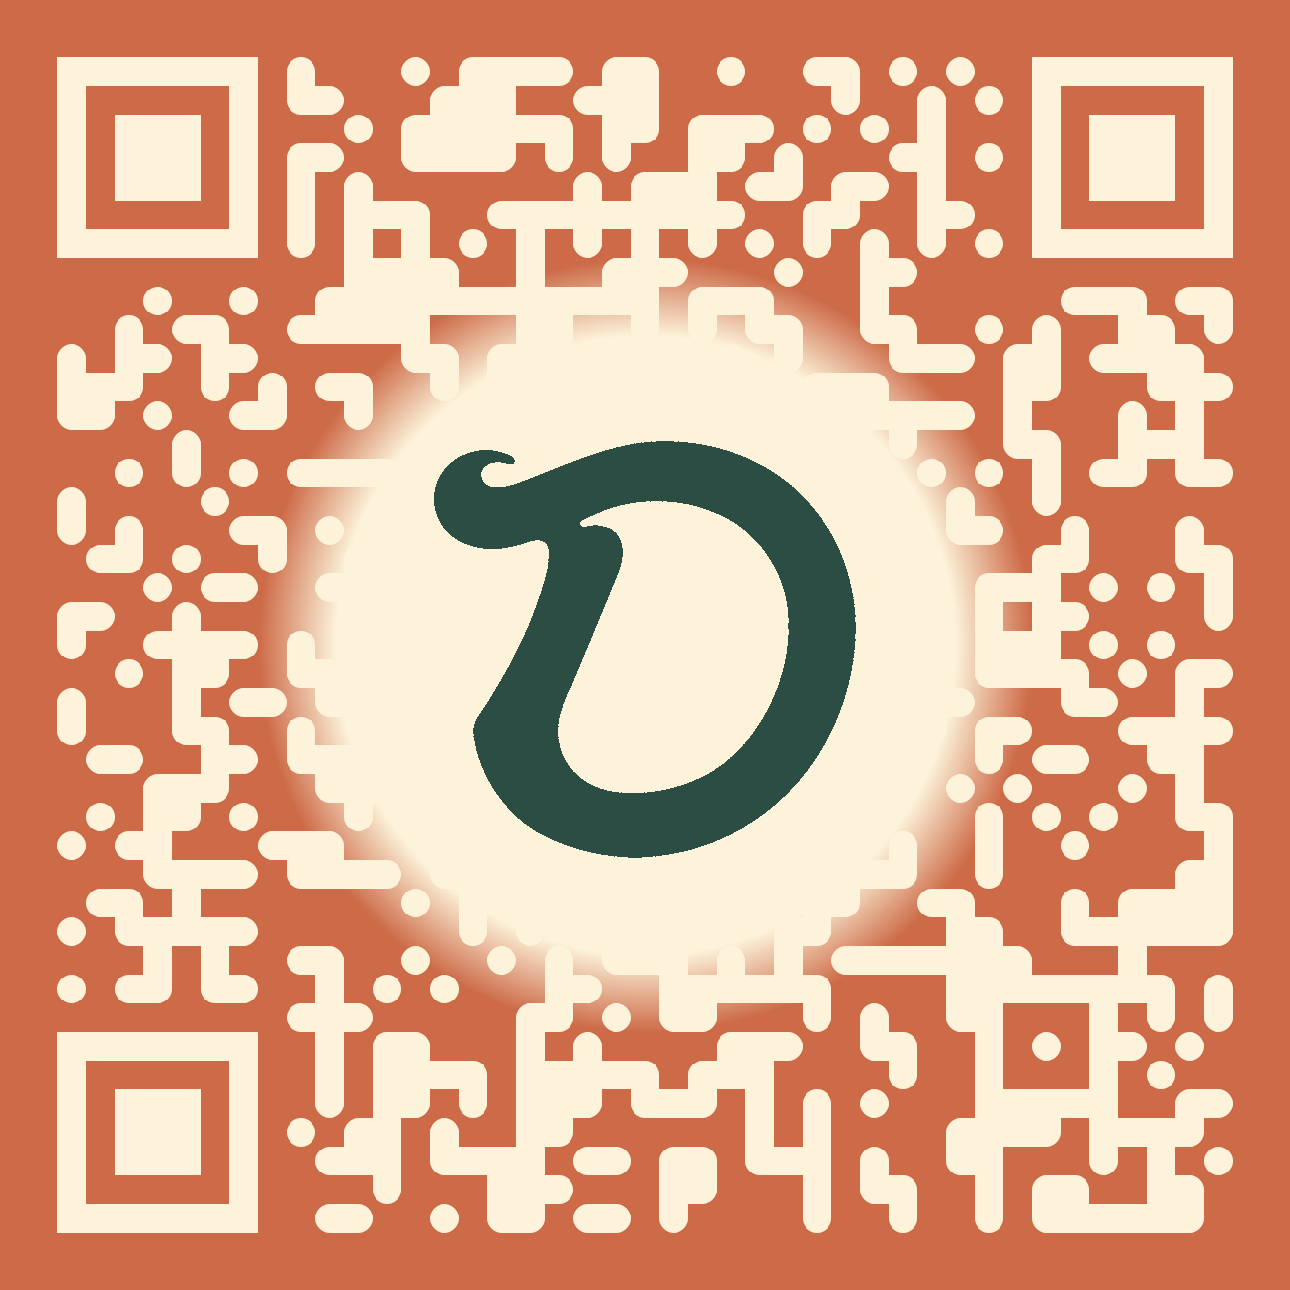
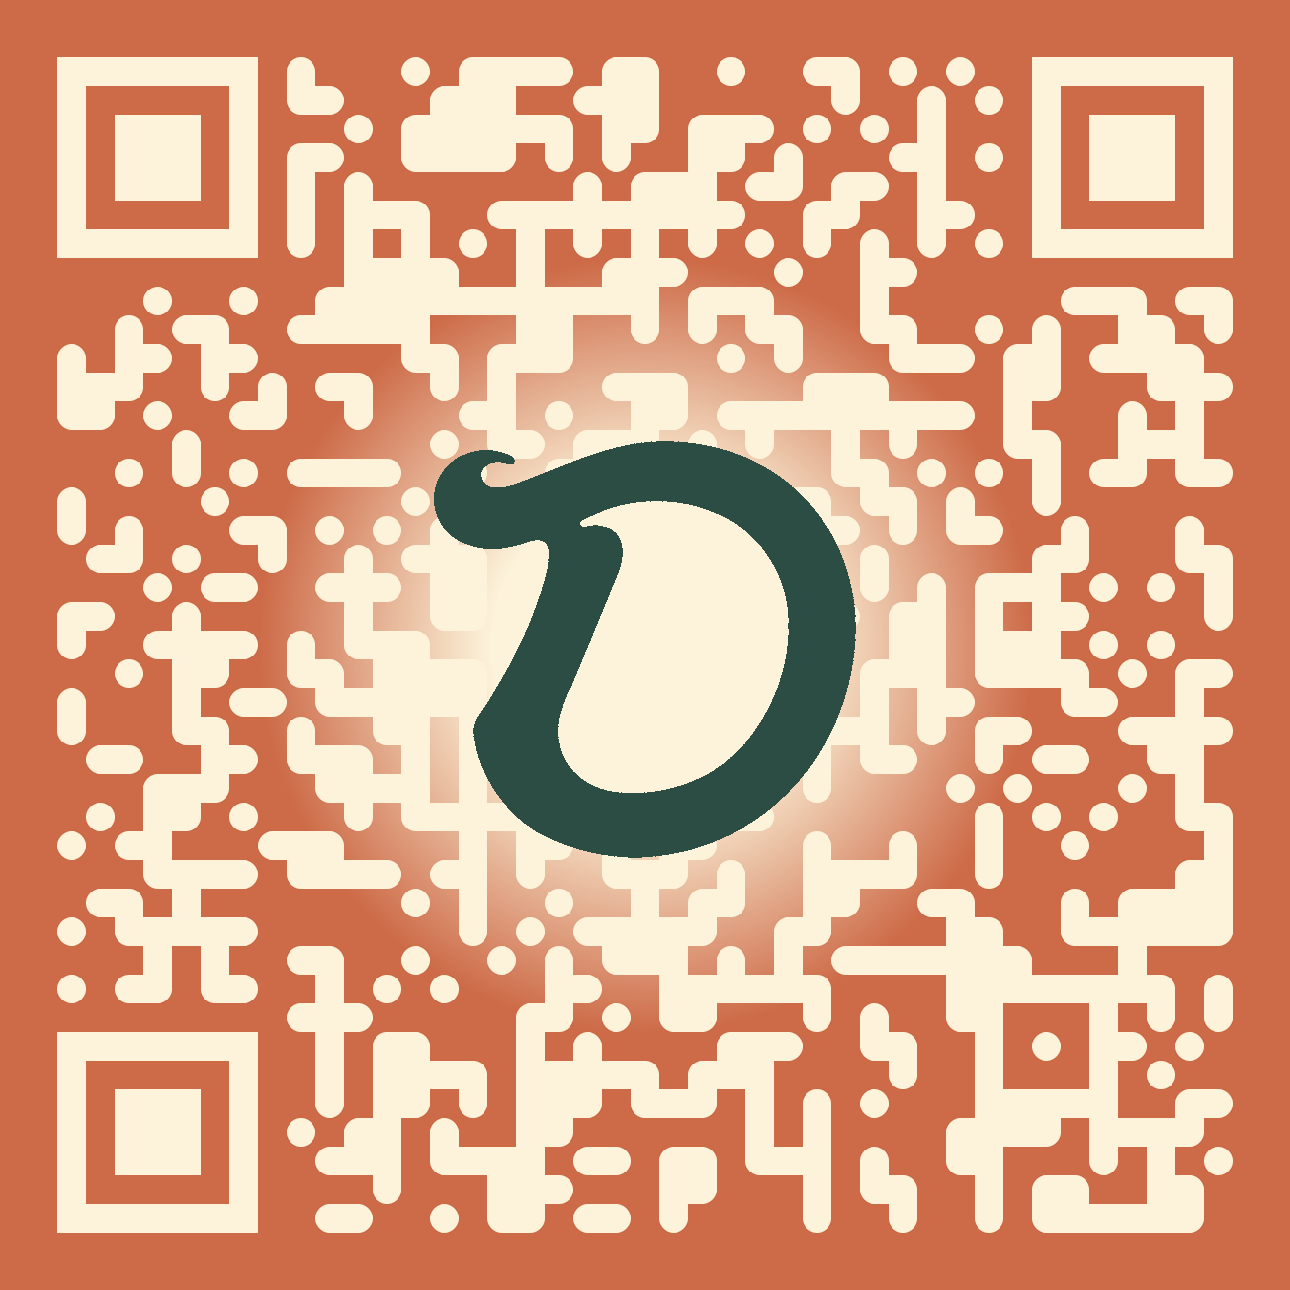
chore: fix inner_r discrepancy in PNG generator and match tuner canvas exactly

Changed region(s): [[0.2171, 0.2171, 0.8062, 0.8062], [0.2171, 0.5891, 0.2481, 0.6202]]

diff --git a/tuner.html b/tuner.html
@@ -508,7 +508,7 @@
                    `logo_size = int(1290 * ${circleScale.toFixed(2)})  # Circle scale (${Math.round(circleScale*100)}%)\n` +
                    `d_size = int(1290 * ${logoScale.toFixed(2)})     # D Logo scale (${Math.round(logoScale*100)}%)\n\n` +
                    `# 2. Update gradient solid core radius inside generate_qr.py:\n` +
-                   `inner_r = logo_size * ${innerCoreScale.toFixed(2)}    # Solid core (${Math.round(innerCoreScale*100)}% of circle radius)\n` +
+                   `inner_r = logo_size * 0.5 * ${innerCoreScale.toFixed(2)}  # Solid core (${Math.round(innerCoreScale*100)}% of circle radius)\n` +
                    `outer_r = logo_size * 0.5\n\n` +
                    `# 3. Update radialGradient stop offsets inside generate_qr_svg:\n` +
                    `# Inside generate_qr_svg() defs (defs section):\n` +

diff --git a/generate_qr.py b/generate_qr.py
@@ -105,7 +105,7 @@ def generate_qr(url, filename, fill_color, back_color, logo_file, d_color):
         # 3. Create the radial gradient mask for the Cream background circle (fading at edges)
         gradient_mask = Image.new("L", (logo_size, logo_size), 0)
         cx, cy = logo_size / 2.0, logo_size / 2.0
-        inner_r = logo_size * 0.40  # Solid interior core
+        inner_r = logo_size * 0.5 * 0.40  # Solid interior core (40% of radius)
         outer_r = logo_size * 0.5
         for y in range(logo_size):
             for x in range(logo_size):
